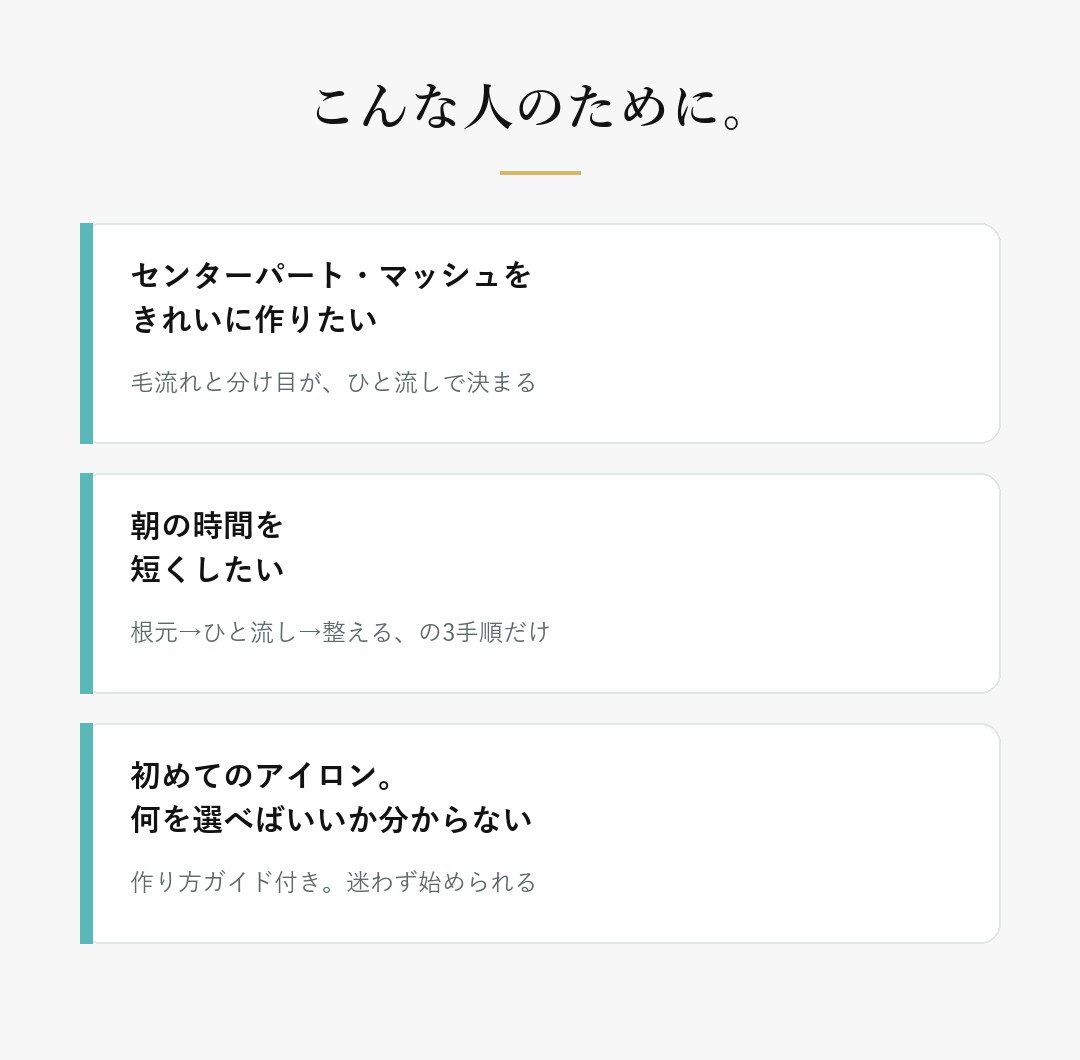
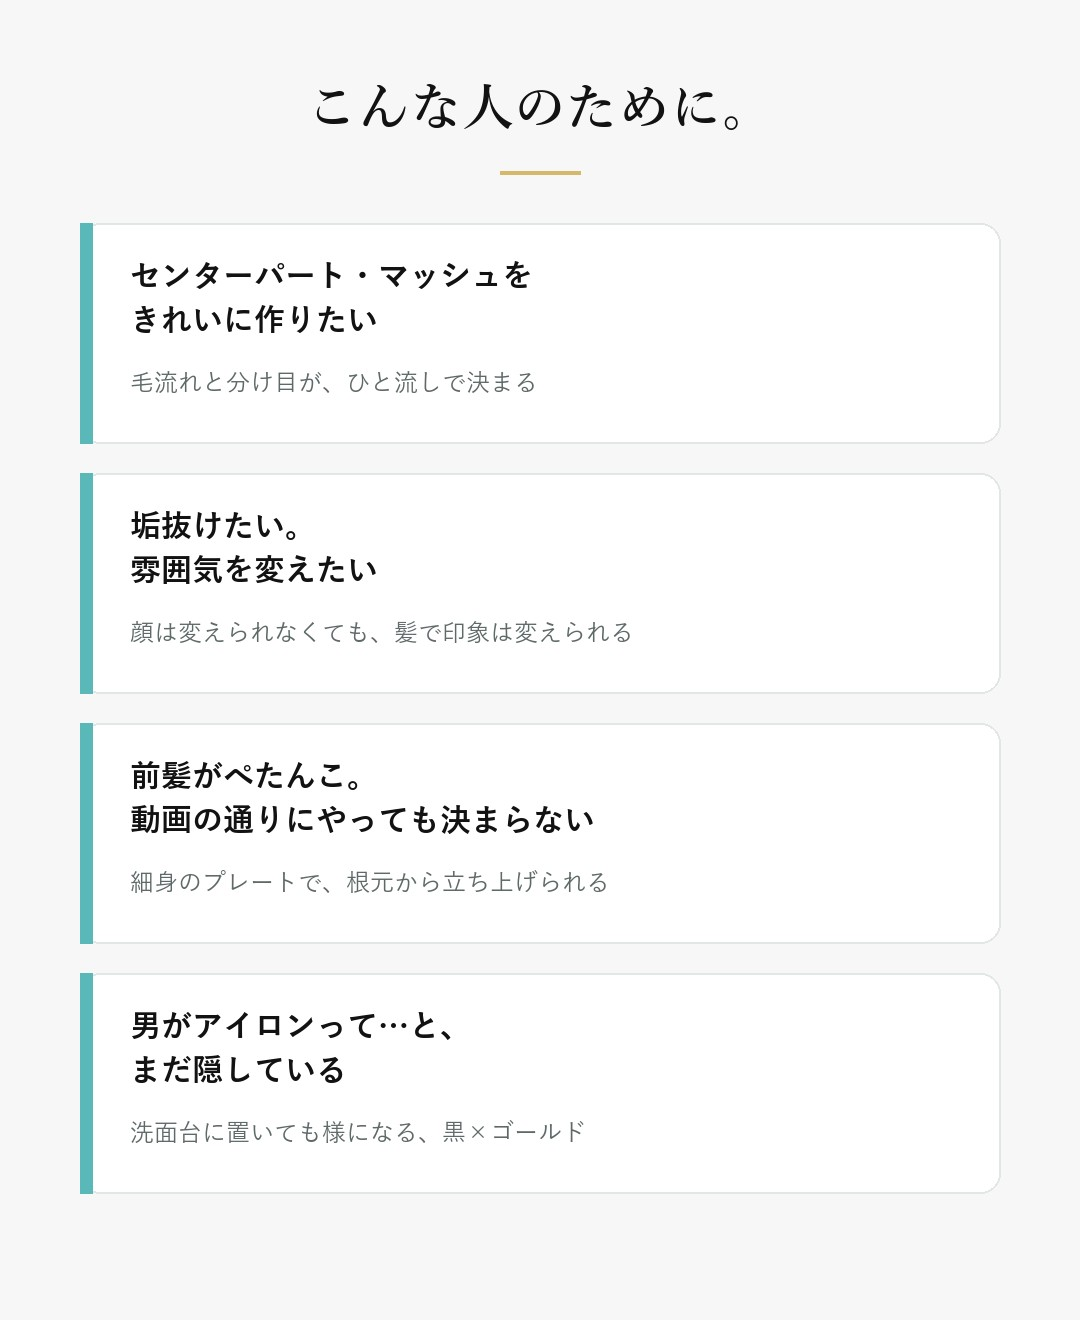
ガイドの言い過ぎを修正／こんな人のために を悩みに合わせて書き換え／左右の背景を明るく

diff --git a/a/index.html b/a/index.html
@@ -10,7 +10,7 @@
 <meta property="og:image" content="lp01.jpg">
 <style>
 *{box-sizing:border-box;margin:0;padding:0}
-body{background:#0A282C;color:#1E2A2B;font-family:"Hiragino Kaku Gothic ProN","Yu Gothic",Meiryo,sans-serif;line-height:1.8}
+body{background:#E4EFEF;color:#1E2A2B;font-family:"Hiragino Kaku Gothic ProN","Yu Gothic",Meiryo,sans-serif;line-height:1.8}
 main{max-width:540px;margin:0 auto;background:#F6F7F6;padding-bottom:96px}
 main img{display:block;width:100%;height:auto}
 .info{padding:40px 20px 24px;font-size:13px;background:#F6F7F6}
